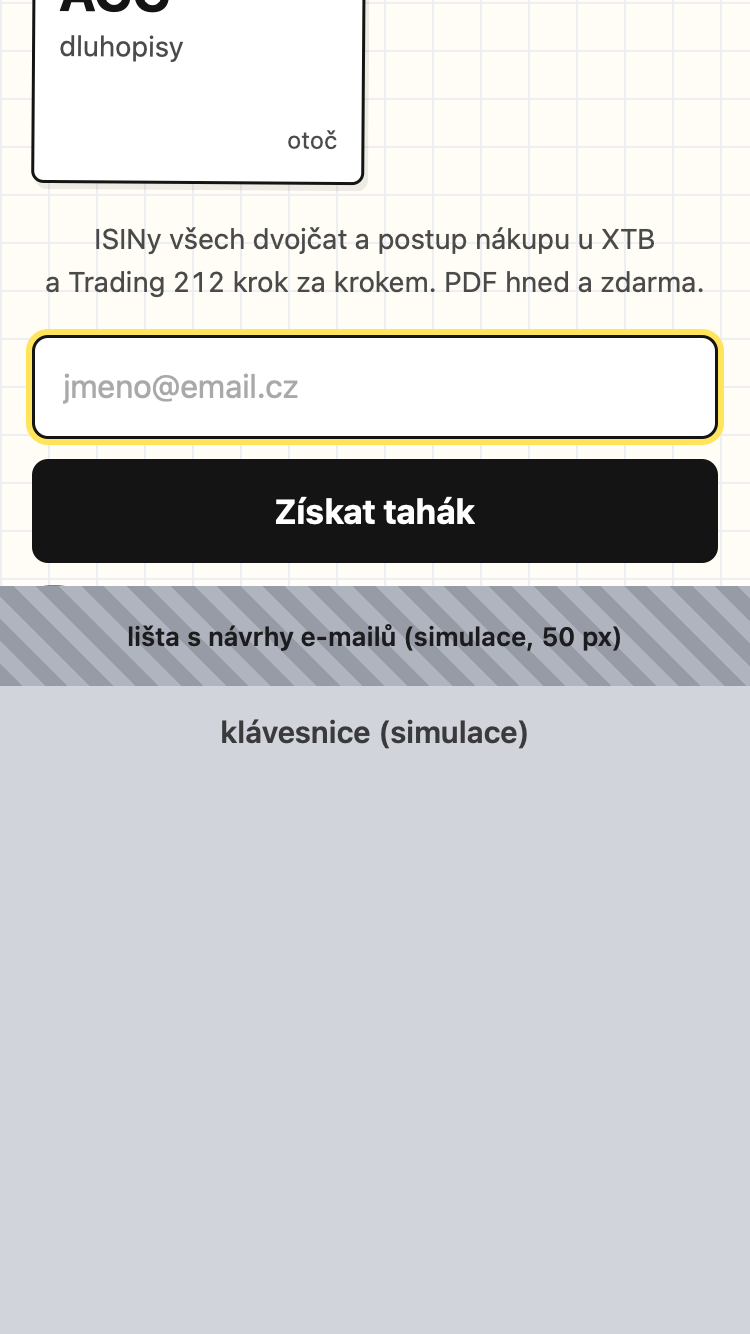
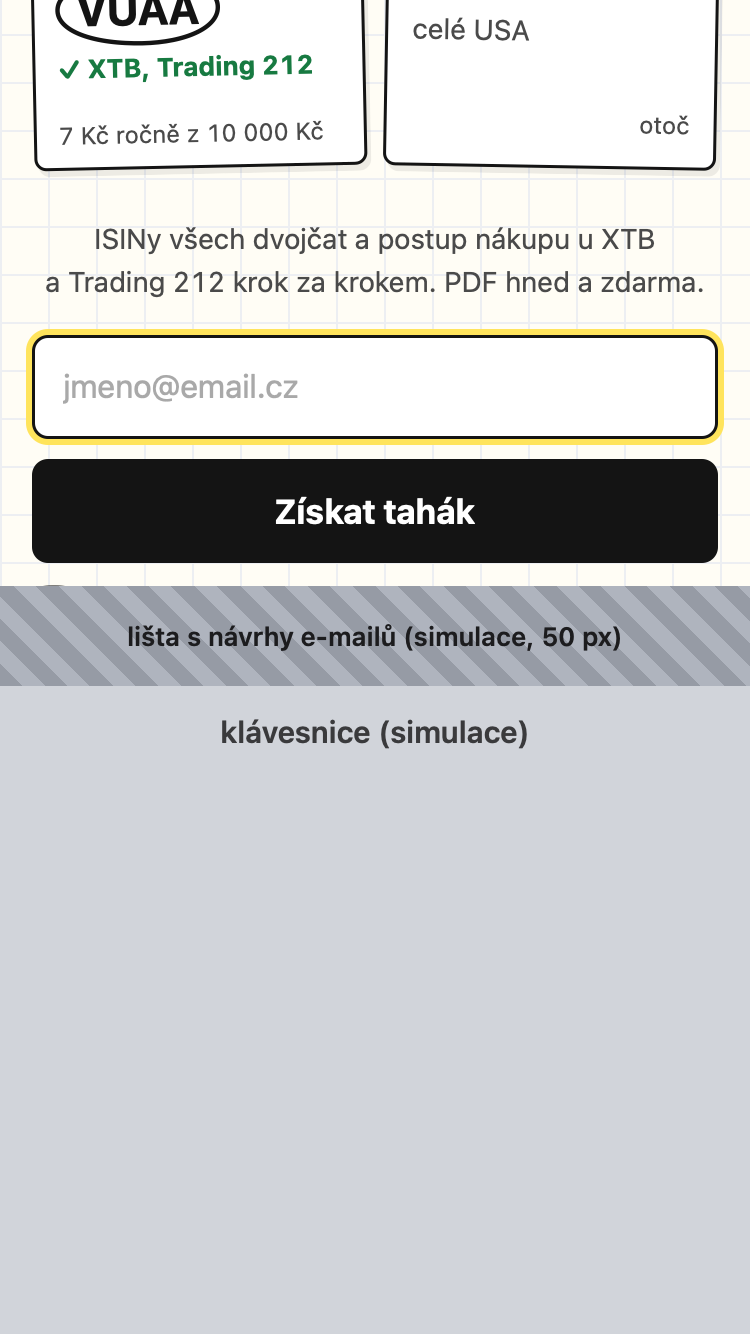
Výzva po prvním otočení hned pod řadou otočeného lístku
Na 390×844 se výzva ukazovala až pod posledním lístkem, mimo obrazovku.
Teď se při prvním otočení vloží hned za řadu otočeného lístku (řada
podle výšky lístků, funguje pro 2 i 4 sloupce) a když je lístek
u spodního okraje, stránka se posune jen o tolik, aby byla vidět
(scrollIntoView nearest). Spodní lištu nad lístky nepoužívám: dřív
zakrývala třetí řadu a klepnutí trefovala lištu.

Ověřeno snímky v Chromu i WebKitu na 390×844 a 375×667, lístek nahoře
(VOO, bez posunu) i u spodního okraje (SDY, posun ~108 px): tlačítko
celé na obrazovce, otočený lístek vidět. Nový test v Chromu (VOO, SDY).
Chrome 134, WebKit 81, JS 19 913 B.

diff --git a/public/index.html b/public/index.html
@@ -79,6 +79,7 @@ a{color:var(--ink);text-decoration-thickness:1px;text-underline-offset:2px}
 @keyframes peek{0%,100%{transform:perspective(600px) rotateY(0)}45%{transform:perspective(600px) rotateY(-16deg)}}
 .stamp{margin:14px 0 0;font-size:.8125rem;color:var(--ink-2)}
 .cta{margin-top:16px}
+.listky>.cta{grid-column:1/-1;margin:4px 0 6px}
 .cta .small{text-align:center;margin:8px 0 0}
 /* podrobnosti k otočenému lístku */
 .result{padding-top:20px}
@@ -559,7 +560,7 @@ html{scroll-behavior:auto}
       });
   }
 
-  // příchod: odkaz od kamaráda, jinak utm_source:utm_campaign:utm_content (každý nejvýš 24 znaků)
+  // příchod: sdílení, jinak utm_source:utm_campaign:utm_content
   var utm = ['utm_source', 'utm_campaign', 'utm_content'].map(function (k) { return (qs.get(k) || '').toLowerCase().replace(/[^a-z0-9_.-]/g, '').slice(0, 24); });
   track('prichod', qs.get('ref') === 'sdileni' ? 'sdileni' : utm.join(':').replace(/:+$/, ''));
 
@@ -638,7 +639,11 @@ html{scroll-behavior:auto}
     twins.forEach(function (t) { t.hidden = t.getAttribute('data-etf') !== etf; });
     result.hidden = false;
     if (cta.hidden && !done) {
+      // výzva pod řadu otočeného lístku, ať je vidět hned
+      var row = [].filter.call(listky, function (c) { return c.offsetTop === card.offsetTop; });
+      row[row.length - 1].after(cta);
       cta.hidden = false;
+      cta.scrollIntoView({ block: 'nearest' });
       track('vyzva_zobrazena', 'listky');
     }
   }

diff --git a/README.md b/README.md
@@ -47,7 +47,7 @@ Exporty konverzací s AI jsou v [ai-log/](ai-log/), reklamy v [reklamy/](reklamy
 
 **Kdy žádáme o kontakt:**
 
-1. Hned po prvním otočení lístku: pod lístky se objeví „Chci tahák s postupem nákupu“. Návštěvník právě viděl dvojče a výzva mu nabízí, co mu ještě chybí: jak ho koupit. Formulář se rozbalí na místě.
+1. Hned po prvním otočení lístku: hned pod řadou otočeného lístku (ne až pod posledním) se objeví „Chci tahák s postupem nákupu“, a když je lístek u spodního okraje, stránka se posune jen o tolik, aby byla výzva vidět (snímky z [WebKitu](docs/screenshots/vyzva-webkit-375x667-dole.png) a [Chromu](docs/screenshots/vyzva-chrome-390x844-nahore.png)). Návštěvník právě viděl dvojče a výzva mu nabízí, co mu ještě chybí: jak ho koupit. Formulář se rozbalí na místě.
 2. Spodní lištou, která se ukáže, když lístky zmizí z obrazovky a výzva ani formulář nejsou vidět. Formulář se otevře jako panel tam, kde návštěvník právě je.
 3. Formulářem v sekci Tahák pro ty, kdo dočtou až dolů.
 

diff --git a/texty.md b/texty.md
@@ -78,7 +78,7 @@ Nadpis a podnadpis se mění podle parametru v URL (viz `reklamy/README.md`). Zb
 | AGG · dluhopisy | dvojče · stejný index | IUAA | ✓ XTB, Trading 212 | 25 Kč ročně z 10 000 Kč |
 
   `[d: * › typ]` `[d: * › ucits_obdoba.rozdil_oproti_originalu]` `[d: * › ucits_obdoba.burza.ticker]` `[d: * › ucits_obdoba.kde_koupit]` `[výpočet: TER × 100 = Kč z 10 000 Kč, d: * › ucits_obdoba.ter]`
-- **Po prvním otočení se pod lístky objeví výzva:**
+- **Po prvním otočení se hned pod řadou otočeného lístku objeví výzva** (ne až pod posledním lístkem, aby byla vidět bez posouvání):
   - tlačítko: Chci tahák s postupem nákupu. Formulář se rozbalí na místě.
   - pod ním: ISINy všech dvojčat a postup nákupu u XTB a Trading 212 krok za krokem. PDF hned a zdarma.
 - **Pod výběrem (u lístků, ne až v patičce):** Data od správců fondů a brokerů, ověřeno 10. 10. 2026 (zdroje). Není to investiční doporučení. „zdroje“ vede na sekci se zdroji.
